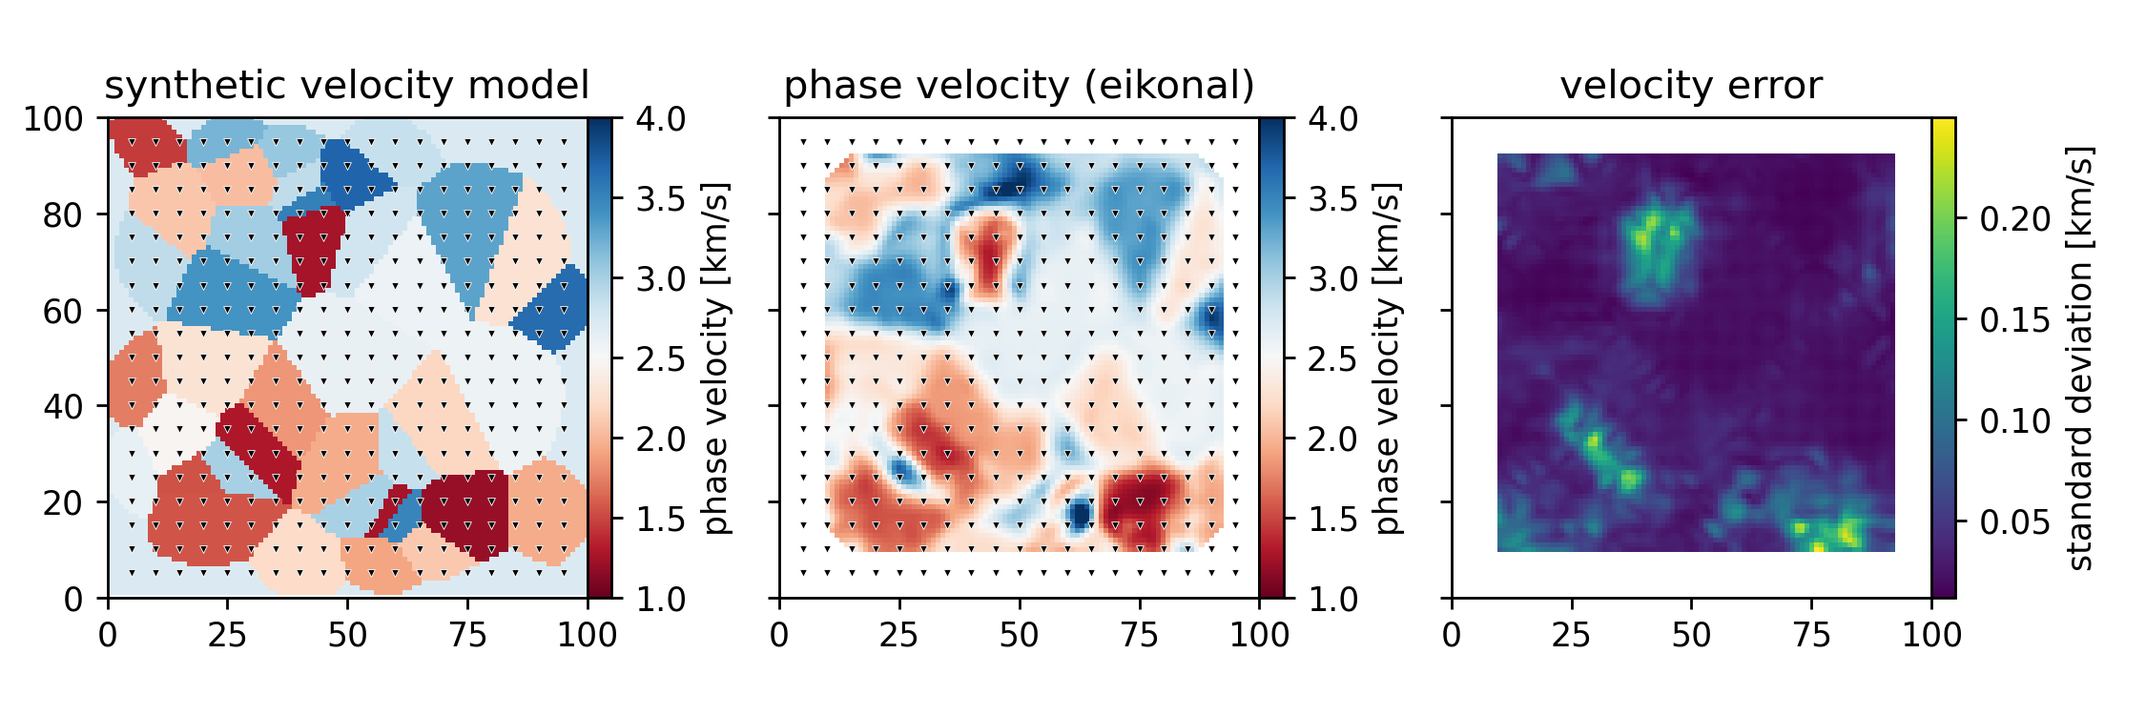
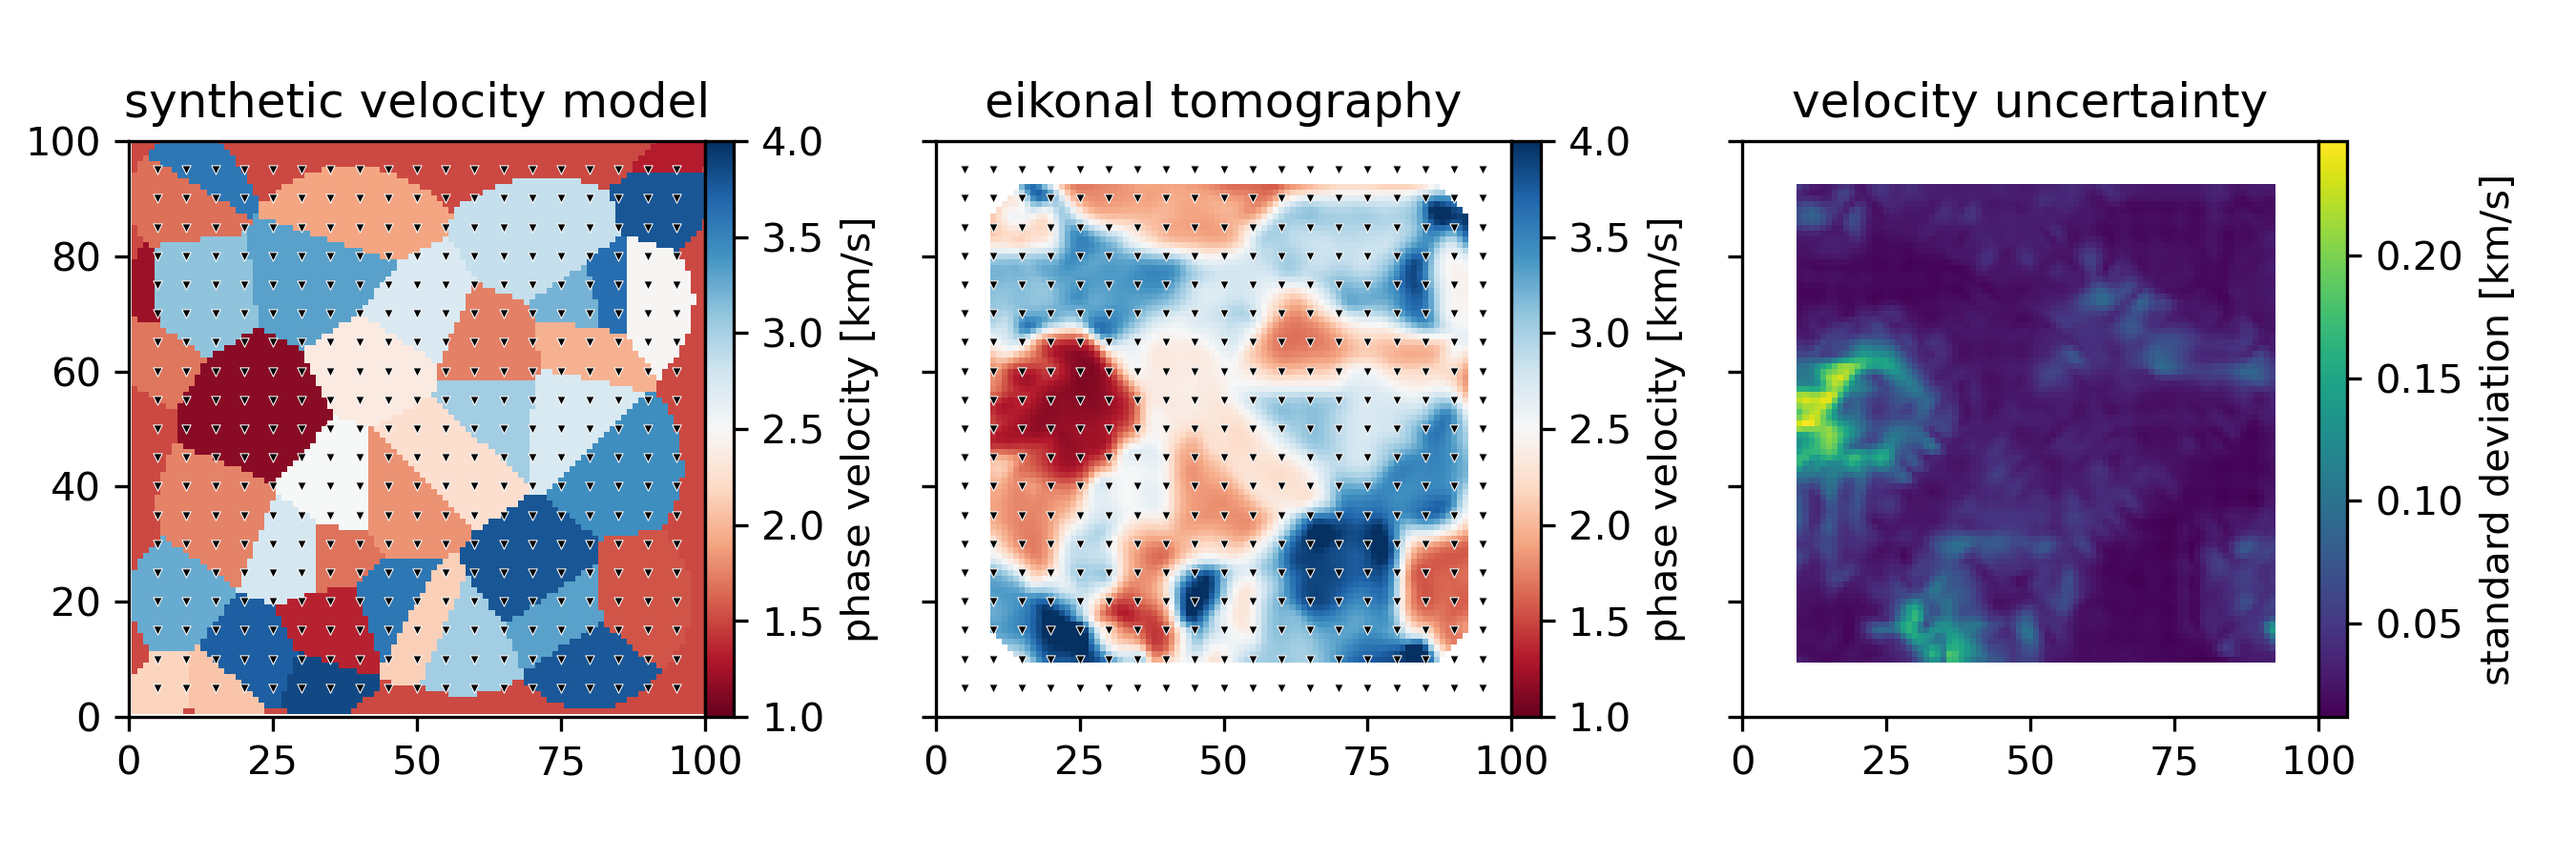
update example img

diff --git a/lib/plotting.py b/lib/plotting.py
@@ -49,7 +49,7 @@ def plot_results(stations, velocity_model, traveltimes_sample, traveltimes_map_i
 
     # eikonal tomography
     ax = axs[1]
-    ax.set_title('phase velocity (eikonal)')
+    ax.set_title('eikonal tomography')
     ax.set_aspect('equal')
     mean_grad = np.mean(np.array(gradients), axis=0)
     # pcm = ax.contourf(1/mean_grad.T, cmap='RdBu', levels=30) #  vmin=1, vmax=4)
@@ -65,7 +65,7 @@ def plot_results(stations, velocity_model, traveltimes_sample, traveltimes_map_i
     # ---
 
     ax = axs[2]
-    ax.set_title('velocity error')
+    ax.set_title('velocity uncertainty')
     ax.set_aspect('equal')
     std_grad = np.nanstd(np.array(gradients), axis=0)
     # pcm = ax.contourf(std_grad.T, levels=30) # , vmin=1, vmax=4)
@@ -78,4 +78,4 @@ def plot_results(stations, velocity_model, traveltimes_sample, traveltimes_map_i
 
     ax.set_xlim(0, 100)
     ax.set_ylim(0, 100)
-    plt.show()
+    fig.savefig('test.png', dpi=300)
